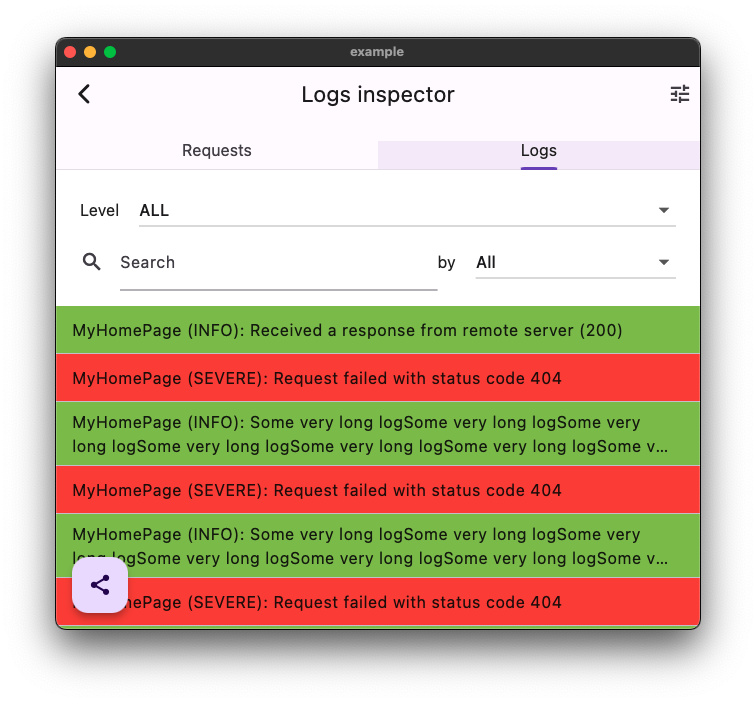
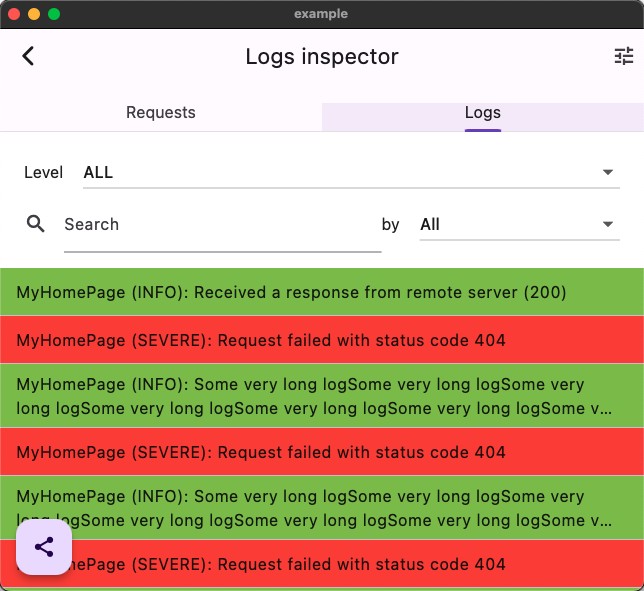
Crop images, add captions

diff --git a/packages/leancode_debug_page/README.md b/packages/leancode_debug_page/README.md
@@ -1,6 +1,6 @@
 # leancode_debug_page
 
-A debug page that gathers http requests and logger logs. Features:
+A debug page that gathers HTTP requests and logger logs. Features:
 
 - Detailed information about requests (request, response) and logs
 - Filtering requests by
@@ -16,9 +16,26 @@ A debug page that gathers http requests and logger logs. Features:
   - Draggable floating action button
   - Device shake
 
-![Inspector](images/requests.png "Inspector")
-![Request details](images/request_details.png "Request details")
-![Logs](images/logs.png "Logs")
+<br>
+<img style="display: block; margin: auto;" src="images/requests.png" alt="Requests list">
+
+<p style="text-align: center;">
+Requests list
+</p>
+<br>
+
+<img style="display: block; margin: auto;" src="images/request_details.png" alt="Request details">
+
+<p style="text-align: center;">
+Request details
+</p>
+<br>
+
+<img style="display: block; margin: auto;" src="images/logs.png" alt="Logs list">
+
+<p style="text-align: center;">
+Logs list
+</p>
 
 
 ## Usage
@@ -86,4 +103,4 @@ You can configure debug page's entry points by setting ```showEntryButton``` (de
 
 ## Warning
 
-For gathering loggers logs, this package relies on listening to `Logger.root`. This means that changing `Logger.root.level` affects this package behavior and the logs are only collected from the current isolate.
+For gathering logs from loggers, this package relies on listening to `Logger.root`. This means that changing `Logger.root.level` affects this package's behavior, and the logs are only collected from the current isolate.
